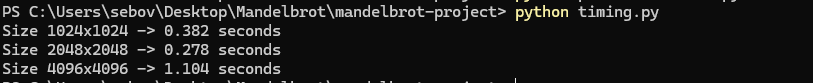
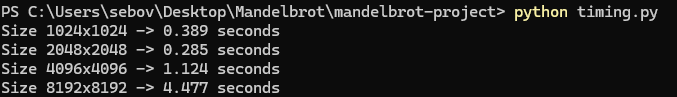
New visualization and normalized values

diff --git a/plot_mandelbrot.py b/plot_mandelbrot.py
@@ -3,13 +3,13 @@ from naive import mandelbrot_naive
 from numpy_version import mandelbrot_numpy
 from njit_version import mandelbrot_numba
 
-width = 8192
-height = 8192
+width = 4096
+height = 4096
 max_iter = 100
 
-#image = mandelbrot_naive(width, height, max_iter)
+image = mandelbrot_naive(width, height, max_iter)
 #image = mandelbrot_numpy(width, height, max_iter)
-image = mandelbrot_numba(width, height, max_iter)
+#image = mandelbrot_numba(width, height, max_iter)
 
 plt.imshow(image, cmap="inferno")
 plt.colorbar()

diff --git a/timing.py b/timing.py
@@ -3,7 +3,7 @@ from naive import mandelbrot_naive
 from numpy_version import mandelbrot_numpy
 from njit_version import mandelbrot_numba
 
-sizes = [1024,2048,4096]
+sizes = [1024,2048,4096,8192]
 
 max_iter = 100
 
@@ -12,7 +12,7 @@ for s in sizes:
     start = time.time()
     #mandelbrot_naive(s, s, max_iter)
     #mandelbrot_numpy(s, s, max_iter)
-    
+
     mandelbrot_numba(s, s, max_iter)
     end = time.time()
 

diff --git a/numpy_version.py b/numpy_version.py
@@ -11,10 +11,10 @@ def mandelbrot_numpy(width, height, max_iter):
     Z = np.zeros_like(C)
     output = np.zeros(C.shape, dtype=int)
 
-    for i in range(max_iter):
+    for i in range(max_iter+1):
 
         mask = np.abs(Z) <= 2
         Z[mask] = Z[mask]**2 + C[mask]
         output[mask] = i
 
-    return output
+    return output/max_iter

diff --git a/naive.py b/naive.py
@@ -21,6 +21,6 @@ def mandelbrot_naive(width, height, max_iter):
                 z = z*z + c
                 iteration += 1
 
-            image[i, j] = iteration
+            image[i, j] = iteration/max_iter
 
     return image

diff --git a/njit_version.py b/njit_version.py
@@ -24,6 +24,6 @@ def mandelbrot_numba(width, height, max_iter):
                 z = z*z + c
                 iteration += 1
 
-            image[i,j] = iteration
+            image[i,j] = iteration/max_iter
 
     return image
